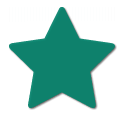
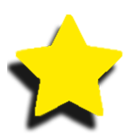
adding new file

diff --git a/css/makan1.css b/css/makan1.css
@@ -16,7 +16,7 @@ body
 {
     direction:rtl;
     background-color:rgb(252,252,252);
-    background:url("../img/A 26-21.png");
+    background:url("../img/A 26-21 reverse.png");
     background-position: center;
     background-size: cover;
     background-repeat: no-repeat;
